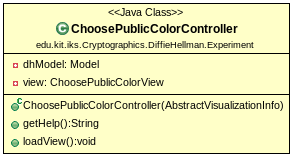
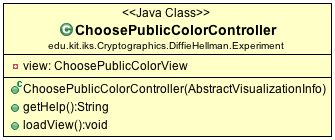
Update images.

diff --git a/cg_entwurf/cg_entwurf.tex b/cg_entwurf/cg_entwurf.tex
@@ -1199,7 +1199,30 @@ Alle Schichten unterteilen ihre Klassen nach dem Model-View-Controller-Prinzip u
 \subsection{Paket edu.kit.iks.Cryptographics.Caesar}
 
 \subsection{Paket edu.kit.iks.Cryptographics.DiffieHellman}
-\subsubsection{Klasse Model}
+      Der AbstractController ist eine abstrakte Klasse, die die verschiedenen State-Controller im DiffieHellman-Paket nutzen.
+      \begin{figure}[H]
+        \centering
+        \includegraphics{resources/edu-kit-iks-Cryptographics-DiffieHellman-AbstractController}
+      \end{figure}
+
+      \textbf{Superklassen und Interfaces}
+      \begin{itemize}
+        \item edu.kit.iks.CryptographicsLib.AbstractVisualizationController
+      \end{itemize}
+      
+      \textbf{Methoden}
+      \begin{itemize}
+        \item public AbstractController(AbstractVisualizationInfo visualzationInfo) \newline
+        Konstruktor. Erzeugt einen neuen AbstractController.
+      \end{itemize}
+
+      \textbf{Getter}
+      \begin{itemize}
+        \item public Model getModel() \newline
+        Gibt die Singleton-Instanz des Models zurück.
+      \end{itemize}
+
+  \subsubsection{Klasse Model}
       Das Model in MVC für die Diffie-Hellman Analogie.
       Diese Klasse verwendet das Singleton Entwurfsmuster,
       da die unterschiedliche Controller das gleiche Model verwenden sollen.
@@ -1299,7 +1322,7 @@ Alle Schichten unterteilen ihre Klassen nach dem Model-View-Controller-Prinzip u
 
       \textbf{Superklassen und Interfaces}
       \begin{itemize}
-        \item edu.kit.iks.CryptographicsLib.AbstractVisualizationController
+        \item edu.kit.iks.Cryptographics.DiffieHellman.AbstractController
       \end{itemize}
 
       \textbf{Methoden}
@@ -1346,7 +1369,7 @@ Alle Schichten unterteilen ihre Klassen nach dem Model-View-Controller-Prinzip u
 
       \textbf{Superklassen und Interfaces}
       \begin{itemize}
-        \item edu.kit.iks.CryptographicsLib.AbstractVisualizationController
+        \item edu.kit.iks.Cryptographics.DiffieHellman.AbstractController
       \end{itemize}
 
       \textbf{Methoden}
@@ -1393,7 +1416,7 @@ Alle Schichten unterteilen ihre Klassen nach dem Model-View-Controller-Prinzip u
 
       \textbf{Superklassen und Interfaces}
       \begin{itemize}
-        \item edu.kit.iks.CryptographicsLib.AbstractVisualizationController
+        \item edu.kit.iks.Cryptographics.DiffieHellman.AbstractController
       \end{itemize}
 
       \textbf{Methoden}
@@ -1440,7 +1463,7 @@ Alle Schichten unterteilen ihre Klassen nach dem Model-View-Controller-Prinzip u
 
       \textbf{Superklassen und Interfaces}
       \begin{itemize}
-        \item edu.kit.iks.CryptographicsLib.AbstractVisualizationController
+        \item edu.kit.iks.Cryptographics.DiffieHellman.AbstractController
       \end{itemize}
 
       \textbf{Methoden}
@@ -1487,7 +1510,7 @@ Alle Schichten unterteilen ihre Klassen nach dem Model-View-Controller-Prinzip u
 
       \textbf{Superklassen und Interfaces}
       \begin{itemize}
-        \item edu.kit.iks.CryptographicsLib.AbstractVisualizationController
+        \item edu.kit.iks.Cryptographics.DiffieHellman.AbstractController
       \end{itemize}
 
       \textbf{Methoden}
@@ -1532,7 +1555,7 @@ Alle Schichten unterteilen ihre Klassen nach dem Model-View-Controller-Prinzip u
 
       \textbf{Superklassen und Interfaces}
       \begin{itemize}
-        \item edu.kit.iks.CryptographicsLib.AbstractVisualizationController
+        \item edu.kit.iks.Cryptographics.DiffieHellman.AbstractController
       \end{itemize}
 
       \textbf{Methoden}
@@ -1579,7 +1602,7 @@ Alle Schichten unterteilen ihre Klassen nach dem Model-View-Controller-Prinzip u
 
       \textbf{Superklassen und Interfaces}
       \begin{itemize}
-        \item edu.kit.iks.CryptographicsLib.AbstractVisualizationController
+        \item edu.kit.iks.Cryptographics.DiffieHellman.AbstractController
       \end{itemize}
 
       \textbf{Methoden}
@@ -1625,7 +1648,7 @@ Alle Schichten unterteilen ihre Klassen nach dem Model-View-Controller-Prinzip u
 
       \textbf{Superklassen und Interfaces}
       \begin{itemize}
-        \item edu.kit.iks.CryptographicsLib.AbstractVisualizationController
+        \item edu.kit.iks.Cryptographics.DiffieHellman.AbstractController
       \end{itemize}
 
       \textbf{Methoden}
@@ -1670,7 +1693,7 @@ Alle Schichten unterteilen ihre Klassen nach dem Model-View-Controller-Prinzip u
 
       \textbf{Superklassen und Interfaces}
       \begin{itemize}
-        \item edu.kit.iks.CryptographicsLib.AbstractVisualizationController
+        \item edu.kit.iks.Cryptographics.DiffieHellman.AbstractController
       \end{itemize}
 
       \textbf{Methoden}
@@ -1715,7 +1738,7 @@ Alle Schichten unterteilen ihre Klassen nach dem Model-View-Controller-Prinzip u
 
       \textbf{Superklassen und Interfaces}
       \begin{itemize}
-        \item edu.kit.iks.CryptographicsLib.AbstractVisualizationController
+        \item edu.kit.iks.Cryptographics.DiffieHellman.AbstractController
       \end{itemize}
 
       \textbf{Methoden}
@@ -1761,7 +1784,7 @@ Alle Schichten unterteilen ihre Klassen nach dem Model-View-Controller-Prinzip u
 
       \textbf{Superklassen und Interfaces}
       \begin{itemize}
-        \item edu.kit.iks.CryptographicsLib.AbstractVisualizationController
+        \item edu.kit.iks.Cryptographics.DiffieHellman.AbstractController
       \end{itemize}
 
       \textbf{Methoden}
@@ -1807,7 +1830,7 @@ Alle Schichten unterteilen ihre Klassen nach dem Model-View-Controller-Prinzip u
 
       \textbf{Superklassen und Interfaces}
       \begin{itemize}
-        \item edu.kit.iks.CryptographicsLib.AbstractVisualizationController
+        \item edu.kit.iks.Cryptographics.DiffieHellman.AbstractController
       \end{itemize}
 
       \textbf{Methoden}

diff --git a/cg_implementierung/src/edu/kit/iks/Cryptographics/DiffieHellman/AbstractController.java b/cg_implementierung/src/edu/kit/iks/Cryptographics/DiffieHellman/AbstractController.java
@@ -3,7 +3,7 @@ package edu.kit.iks.Cryptographics.DiffieHellman;
 import edu.kit.iks.CryptographicsLib.AbstractVisualizationController;
 import edu.kit.iks.CryptographicsLib.AbstractVisualizationInfo;
 
-public class AbstractController extends AbstractVisualizationController {
+abstract public class AbstractController extends AbstractVisualizationController {
 	
 	private Model model;
 
@@ -15,17 +15,5 @@ public class AbstractController extends AbstractVisualizationController {
 	public Model getModel() {
 		return this.model;
 	}
-
-	@Override
-	public String getHelp() {
-		// TODO Auto-generated method stub
-		return null;
-	}
-
-	@Override
-	public void loadView() {
-		// TODO Auto-generated method stub
-
-	}
-
+	
 }
